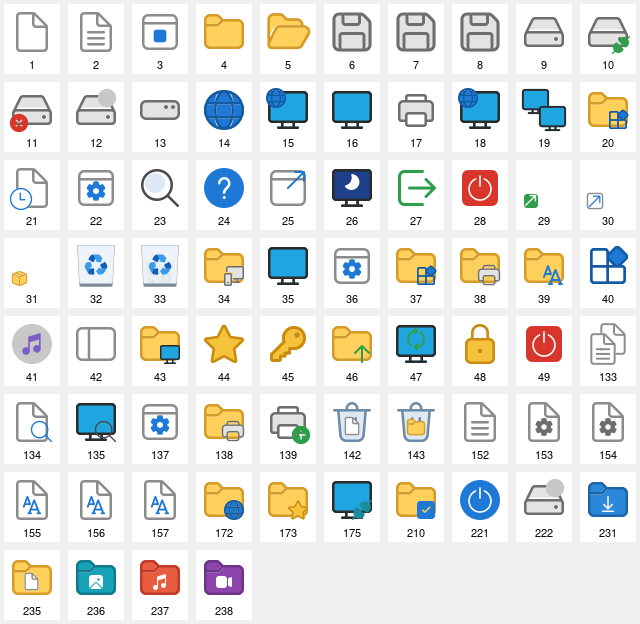
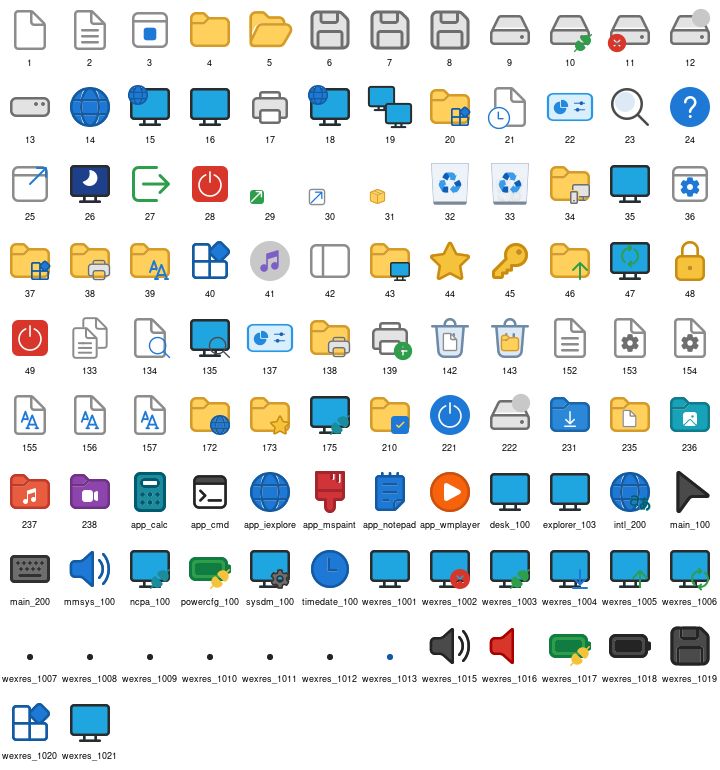
iconpacks: Control Panel look-alikes for XP and Windows 11; round 3 list
XP 22/137: dark-blue glossy tile, light panel, gold check, light-blue
pencil. Windows 11 22/137: wide light panel with blue frame, pie and
sliders. Both from Fluent glyphs, coloured by eye against local
side-by-side sheets (three rounds). Previews and provenance regenerated;
the remaining mismatches are listed for Gemini in OPEN_ART_WORKORDER.md.

diff --git a/docs/iconpacks/xp.md b/docs/iconpacks/xp.md
@@ -36,7 +36,7 @@ Licence of the pack as a whole: GPL-2.0-or-later and MIT.
 | 19 | computers near me | `reactos:dll/win32/shell32/res/icons/19.ico` |
 | 20 | folder small xp | `reactos:dll/win32/shell32/res/icons/20.ico` (recolour=xp_folder) |
 | 21 | recent documents | `reactos:dll/win32/shell32/res/icons/21.ico` |
-| 22 | settings | `reactos:dll/win32/shell32/res/icons/22.ico` (recolour=xp_folder) |
+| 22 | settings | `fluent:assets/Square/SVG/ic_fluent_square_48_filled.svg` with edits: `viewBox="0 0 48 48"` → `viewBox="4.75 4.75 38.5 38.5"`; `fill="#212121"` → `fill="url(#cplblue)" stroke="#112F6E" stroke-width="0.9"`; appended `<defs><linearGradient id="cplblue" x1="0" y1="0" x2="1" y2="1"><stop offset="0" stop-color="#6C9FE6"/><stop offset="0.55" stop-color="#2A5FBE"/><stop offset="1" stop-color="#183F8C"/></linearGradient><radialGradient id="gloss" cx="0.32" cy="0.24" r="0.62"><stop offset="0" stop-color="#FFFFFF" stop-opacity="0.35"/><stop offset="1" stop-color="#FFFFFF" stop-opacity="0"/></radialGradient></defs><path d="M6 12.25C6 8.79822 8.79822 6 12.25 6H35.75C39.2018 6 42 8.79822 42 12.25V35.75C42 39.2018 39.2018 42 35.75 42H12.25C8.79822 42 6 39.2018 6 35.75V12.25Z" fill="url(#gloss)"/>`; `square` filled #EEF4FD, 0.62x at (0.19, 0.19); `checkmark` filled #DCA012, 0.48x at (0.17, 0.24); `edit` filled #7DB0F5, 0.52x at (0.44, 0.22) |
 | 23 | search | `reactos:dll/win32/shell32/res/icons/23.ico` (recolour=xp_search, flop=True) |
 | 24 | help | `reactos:dll/win32/shell32/res/icons/24.ico` (recolour=xp_help) |
 | 25 | Run (Start menu) | `fluent:assets/Square/SVG/ic_fluent_square_48_filled.svg` with edits: `path d="[^"]+" fill="#212121"` → `line x1="2" y1="18" x2="12" y2="18" stroke="#1E5CD9" stroke-width="2.2" stroke-linecap="round"`; appended `<defs><linearGradient id="run_tb" x1="0" y1="0" x2="0" y2="1"><stop offset="0" stop-color="#3B80F5"/><stop offset="1" stop-color="#0D3B9E"/></linearGradient></defs><line x1="5" y1="24" x2="13" y2="24" stroke="#3B80F5" stroke-width="2.2" stroke-linecap="round"/><line x1="3" y1="30" x2="11" y2="30" stroke="#1E5CD9" stroke-width="2.2" stroke-linecap="round"/><g transform="translate(14, 10) skewX(-8)"><rect x="2" y="2" width="28" height="24" rx="2" fill="#FFFFFF" stroke="#0D3B9E" stroke-width="1.8"/><rect x="2" y="2" width="28" height="6.5" rx="1.5" fill="url(#run_tb)"/><rect x="24" y="3.5" width="3.5" height="3.5" rx="0.5" fill="#E04328" stroke="#FFFFFF" stroke-width="0.6"/></g>` |
@@ -67,7 +67,7 @@ Licence of the pack as a whole: GPL-2.0-or-later and MIT.
 | 133 | files | `reactos:dll/win32/shell32/res/icons/133.ico` |
 | 134 | file search | `reactos:dll/win32/shell32/res/icons/134.ico` |
 | 135 | system search | `reactos:dll/win32/shell32/res/icons/135.ico` |
-| 137 | control panel xp | `reactos:dll/win32/shell32/res/icons/137.ico` (recolour=xp_folder) |
+| 137 | control panel xp | `fluent:assets/Square/SVG/ic_fluent_square_48_filled.svg` with edits: `viewBox="0 0 48 48"` → `viewBox="4.75 4.75 38.5 38.5"`; `fill="#212121"` → `fill="url(#cplblue)" stroke="#112F6E" stroke-width="0.9"`; appended `<defs><linearGradient id="cplblue" x1="0" y1="0" x2="1" y2="1"><stop offset="0" stop-color="#6C9FE6"/><stop offset="0.55" stop-color="#2A5FBE"/><stop offset="1" stop-color="#183F8C"/></linearGradient><radialGradient id="gloss" cx="0.32" cy="0.24" r="0.62"><stop offset="0" stop-color="#FFFFFF" stop-opacity="0.35"/><stop offset="1" stop-color="#FFFFFF" stop-opacity="0"/></radialGradient></defs><path d="M6 12.25C6 8.79822 8.79822 6 12.25 6H35.75C39.2018 6 42 8.79822 42 12.25V35.75C42 39.2018 39.2018 42 35.75 42H12.25C8.79822 42 6 39.2018 6 35.75V12.25Z" fill="url(#gloss)"/>`; `square` filled #EEF4FD, 0.62x at (0.19, 0.19); `checkmark` filled #DCA012, 0.48x at (0.17, 0.24); `edit` filled #7DB0F5, 0.52x at (0.44, 0.22) |
 | 138 | printers folder xp | `reactos:dll/win32/shell32/res/icons/138.ico` (recolour=xp_folder) |
 | 139 | add printer | `reactos:dll/win32/shell32/res/icons/139.ico` |
 | 142 | file in the Recycle Bin | `reactos:dll/win32/shell32/res/icons/143.ico` (recolour=xp_bin_file) |

diff --git a/docs/OPEN_ART_WORKORDER.md b/docs/OPEN_ART_WORKORDER.md
@@ -1,7 +1,7 @@
 <!-- SPDX-License-Identifier: GPL-2.0-or-later -->
 # Work order (Gemini): open look-alike icons and cursors for XP and Windows 11
 
-Status: done, 2026-10-17 (merged after two rounds of review). Assignee: Gemini.
+Status: round 3 open, 2026-10-17 (rounds 1-2 merged). Assignee: Gemini.
 
 ## Goal
 
@@ -262,3 +262,38 @@ Open (small, next time the builder is touched):
 Fixed after merge (2026-10-17): the Fluent-based XP bases (28, 35, 44, 45, 48, 173, 221) were cropped by `viewBox` exactly to
 the shape, so the outer half of their outline and their corners were cut at every size. Each crop now leaves the
 outline plus 0.8 units (about 1 px at 48 px); the Log Off example had the same fault.
+
+## Round 3: closer matches (Claude's comparison, 2026-10-17)
+
+Fresh sheets of both sets against the originals, at 48 px:
+- `../WineExplorer-local/notes/xp/compare-2026-10-17.png`
+- `../WineExplorer-local/notes/win11/compare-2026-10-17.png`
+
+**Done by Claude: Control Panel (22 and 137) in both sets.**
+- XP: a dark-blue glossy tile around a light panel, with a gold check and a light-blue pencil (Fluent `square`,
+  `checkmark` and `edit`).
+- Windows 11: a wide light panel with a blue frame, a pie and sliders (Fluent `rectangle_landscape`, flattened
+  through its `viewBox` with `preserveAspectRatio="none"`, plus `data_pie` and `options`).
+- Three rounds each, against `notes/xp/cpl-22.png` and `notes/win11/cpl-22.png`. Use them as more worked examples,
+  next to the Recycle Bin and Log Off.
+
+**For Gemini, in this order** (the method of "The goal, by example"; one local before/after sheet per slot):
+
+XP set:
+1. Documents 1, 2 and 152: XP shows coloured pages (a page with small colour blocks, a page with a red letter, a
+   notepad page with ruled lines); ours are blank grey pages.
+2. Special folders 235–238: XP shows an open yellow folder with a sheet standing in it (document, picture, music,
+   video); ours are closed folders with a small badge.
+3. Network 15, 18 and 175: XP shows a globe with a monitor; ours show servers (15, 18) or a folder (175).
+4. My Computer 16: XP is a colourful monitor and tower; ours is grey.
+5. Smaller: the green arrows of the Recycle Bin (32, 33), Printers 138/139, and Eject 27.
+6. Leave 40 and 47 as they are: the originals show the Windows logo, which we cannot use.
+
+Windows 11 set. The overall gap is style: Windows 11 shell icons are filled colour pictures, ours are mostly Fluent
+outline glyphs. Fill the main shapes (use `tone` pairs or filled glyphs) rather than outlines, starting with:
+1. Downloads 231: Windows 11 shows a blue arrow on a white tile, not a folder.
+2. Documents 235: a grey-blue folder with a document page.
+3. The drive family 6–9 and 12: Windows 11 shows dark, flat drive bars with a green LED; ours are outline floppies and
+   drives.
+4. Desktop 35 and the monitor family 15, 16 and 18: a flat cyan screen with a dark stand; ours are close but outlined.
+5. Smaller: Eject 27 (green arrow), tree 42, DVD 222 and the multi-page 133.

diff --git a/docs/iconpacks/fluent.md b/docs/iconpacks/fluent.md
@@ -36,7 +36,7 @@ Licence of the pack as a whole: GPL-3.0, because it contains Tela icon theme art
 | 19 | computers near me | `desktop` filled #1FA6E0, 0.65x at (0.0, 0.0); `desktop` regular #2B2B2B, 0.65x at (0.0, 0.0); `desktop` filled #1FA6E0, 0.65x at (0.35, 0.35); `desktop` regular #2B2B2B, 0.65x at (0.35, 0.35) |
 | 20 | programs folder (small) | `folder` filled #FFD15C; `folder` regular #D49A2A; `apps` filled #1E79D6, 0.5x at (0.46, 0.46); `apps` regular #145AA0, 0.5x at (0.46, 0.46) |
 | 21 | recent documents | `document` filled #FFFFFF; `document` regular #8C8C8C; `clock` filled #FFFFFF, 0.55x at (0.0, 0.45); `clock` regular #1E79D6, 0.55x at (0.0, 0.45) |
-| 22 | settings | `window` filled #FFFFFF; `window` regular #8C8C8C; `settings` filled #1E79D6, 0.5x at (0.25, 0.32) |
+| 22 | settings | `fluent:assets/Rectangle Landscape/SVG/ic_fluent_rectangle_landscape_48_filled.svg` with edits: `viewBox="0 0 48 48"` → `viewBox="2.2 -5 43.6 58" preserveAspectRatio="none"`; `fill="#212121"` → `fill="#D9EFFC" stroke="#2A97E6" stroke-width="2"`; `data_pie` filled #2389DD, 0.38x at (0.13, 0.31); `options` filled #1A62B8, 0.32x at (0.55, 0.34) |
 | 23 | search | `circle` filled #DDEAF5, 0.5x at (0.14, 0.14); `search` regular #4A4A4A |
 | 24 | help | `question_circle` filled #1E79D6 |
 | 25 | run | `window` filled #FFFFFF; `window` regular #8C8C8C; `arrow_up_right` filled #1E79D6, 0.5x at (0.42, 0.08) |
@@ -67,7 +67,7 @@ Licence of the pack as a whole: GPL-3.0, because it contains Tela icon theme art
 | 133 | files | `document` filled #FFFFFF, 0.8x at (0.2, 0.0); `document` regular #8C8C8C, 0.8x at (0.2, 0.0); `document_text` filled #FFFFFF, 0.8x at (0.0, 0.2); `document_text` regular #8C8C8C, 0.8x at (0.0, 0.2) |
 | 134 | file search | `document` filled #FFFFFF; `document` regular #8C8C8C; `search` regular #1E79D6, 0.55x at (0.42, 0.42) |
 | 135 | computer search | `desktop` filled #1FA6E0; `desktop` regular #2B2B2B; `search` regular #4A4A4A, 0.55x at (0.42, 0.42) |
-| 137 | Control Panel (XP) | `window` filled #FFFFFF; `window` regular #8C8C8C; `settings` filled #1E79D6, 0.5x at (0.25, 0.32) |
+| 137 | Control Panel (XP) | `fluent:assets/Rectangle Landscape/SVG/ic_fluent_rectangle_landscape_48_filled.svg` with edits: `viewBox="0 0 48 48"` → `viewBox="2.2 -5 43.6 58" preserveAspectRatio="none"`; `fill="#212121"` → `fill="#D9EFFC" stroke="#2A97E6" stroke-width="2"`; `data_pie` filled #2389DD, 0.38x at (0.13, 0.31); `options` filled #1A62B8, 0.32x at (0.55, 0.34) |
 | 138 | Printers and Faxes | `folder` filled #FFD15C; `folder` regular #D49A2A; `print` filled #E3E3E3, 0.55x at (0.42, 0.42); `print` regular #6E6E6E, 0.55x at (0.42, 0.42) |
 | 139 | add printer | `print` filled #E3E3E3; `print` regular #6E6E6E; `add_circle` filled #2E9E4A, 0.45x at (0.55, 0.55) |
 | 142 | file in the Recycle Bin | `delete` filled #DDEAF5; `delete` regular #6E8AA6; `document` filled #FFFFFF, 0.45x at (0.28, 0.35); `document` regular #8C8C8C, 0.45x at (0.28, 0.35) |
